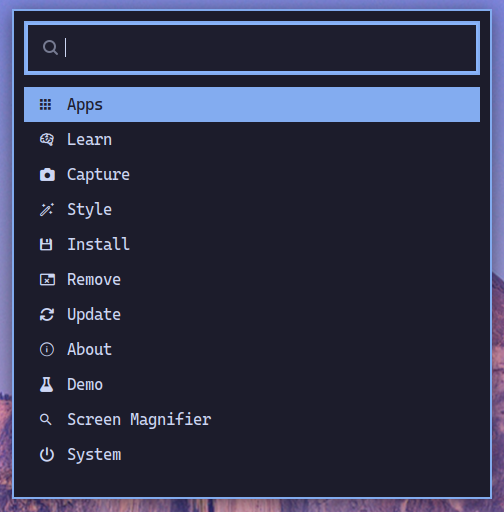
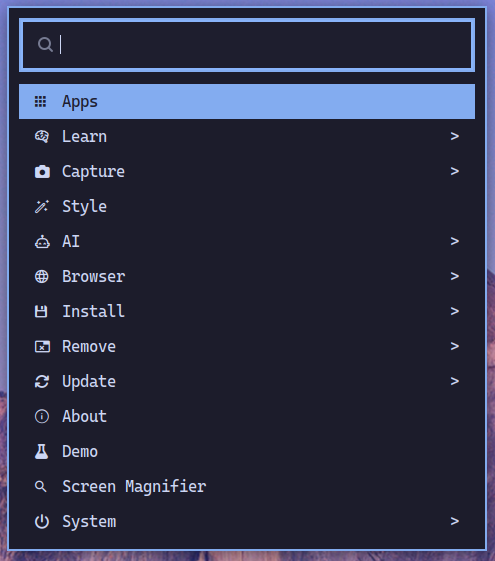
4.4.0

diff --git a/docs/ai.md b/docs/ai.md
@@ -1,27 +1,36 @@
-OhMyDebn includes several different options for your AI needs: OpenCode, Claude Code, ChatGPT, Visual Studio Code with Github Copilot AI, and Antigravity with Google Agentic AI.
+OhMyDebn includes several different options for your AI needs: OpenCode, Claude Code, ChatGPT, Pi, Visual Studio Code with Github Copilot AI, and Antigravity with Google Agentic AI.
+
+## Default AI Assistant
+
+Hotkey Super + A always launches your *default* AI assistant. Picking any option from the OhMyDebn menu's AI section also sets it as your new default, so whichever one you use most is just a keypress away. Until you pick one yourself, the default is OpenCode.
+
+If you're in a terminal, the `a` alias runs your default assistant directly in that terminal (or opens it on the current directory for GUI options like ChatGPT, VS Code, and Antigravity).
 
 ## OpenCode
 
-OpenCode is available as an optional installation. You can install via OhMyDebn menu (Install->AI). You can run via menu or hotkey Super + A. That hotkey checks to see if it's installed first so even on a new installation you can just press Super + A and it will install and then run.
-
-[OpenCode](https://opencode.ai/) runs in a terminal and automatically adapts to our [desktop themes](desktop-themes.md).
+OpenCode is available as an optional installation. You can install via the OhMyDebn menu (AI). [OpenCode](https://opencode.ai/) runs in a terminal and automatically adapts to our [desktop themes](desktop-themes.md). From an existing terminal session, the `c` alias runs OpenCode directly.
 
 ![OhMyDebn opencode-cli](https://raw.githubusercontent.com/dougburks/ohmydebn-docs/refs/heads/main/images/ohmydebn-opencode-cli.png)
+
 ## Claude Code
 
-Claude Code is available as an optional installation. You can install via OhMyDebn menu (Install->AI). You can run in an existing terminal session with the claude command. Alternatively, you can use hotkey Ctrl + Alt + C to start a terminal and run Claude. That hotkey checks to see if it's installed first so even on a new installation you can just press Ctrl + Alt + C and it will install and then run.
+[Claude Code](https://claude.com/claude-code) is available as an optional installation. You can install via the OhMyDebn menu (AI). You can run in an existing terminal session with the `claude` command. Alternatively, you can use hotkey Ctrl + Alt + C to start a terminal and run Claude. That hotkey checks to see if it's installed first so even on a new installation you can just press Ctrl + Alt + C and it will install and then run.
 
 ## ChatGPT
 
-ChatGPT is available as an optional installation. You can install via OhMyDebn menu (Install->AI). You can then run via menu.
+[ChatGPT](https://chatgpt.com/) is available as an optional installation. You can install via the OhMyDebn menu (AI). You can then run via menu.
+
+## Pi
+
+[Pi](https://github.com/earendil-works/pi) is a terminal-based coding agent from earendil-works and is available as an optional installation. You can install via the OhMyDebn menu (AI). From an existing terminal session, the `pi` alias runs it directly.
 
 ## Visual Studio Code with Github Copilot AI
 
-Visual Studio Code is available as an optional installation. You can install via OhMyDebn menu (Install->Editor or Install->AI). You can run via menu or hotkey Ctrl + Super + S. That hotkey checks to see if it's installed first so even on a new installation you can just press Ctrl + Super + S and it will install and then run.
+[Visual Studio Code](https://code.visualstudio.com/) with [GitHub Copilot](https://github.com/features/copilot) is available as an optional installation. You can install via the OhMyDebn menu (Install->Editor or AI). You can run via menu or hotkey Ctrl + Super + S. That hotkey checks to see if it's installed first so even on a new installation you can just press Ctrl + Super + S and it will install and then run.
 
 ## Antigravity with Google Agentic AI
 
-Antigravity is a fork of Visual Studio Code for Google Agentic AI and is available as an optional installation. You can install via OhMyDebn menu (Install->Editor or Install->AI). You can run via menu or hotkey Ctrl + Super + G. That hotkey checks to see if it's installed first so even on a new installation you can just press Ctrl + Super + G and it will install and then run.
+[Antigravity](https://antigravity.google/) is a fork of Visual Studio Code for Google Agentic AI and is available as an optional installation. You can install via the OhMyDebn menu (Install->Editor or AI). You can run via menu or hotkey Ctrl + Super + G. That hotkey checks to see if it's installed first so even on a new installation you can just press Ctrl + Super + G and it will install and then run.
 
 ![OhMyDebn antigravity](https://raw.githubusercontent.com/dougburks/ohmydebn-docs/refs/heads/main/images/ohmydebn-antigravity.png)
 

diff --git a/docs/desktop-themes.md b/docs/desktop-themes.md
@@ -16,25 +16,12 @@ This opens a full-screen theme and background browser:
 - `Up` / `Down` browse the backgrounds included with the theme currently shown, when it has more than one.
 - `Enter` applies the theme and background currently shown.
 - `Esc` cancels without changing anything.
-- `B` opens the [Omarchy Extra Themes](https://bjarneo.github.io/omarchy-themes/) gallery in your browser to browse for more themes. Picking one there installs and applies it automatically.
+- `S` opens a search box; type to jump the carousel straight to the first matching theme.
+- `B` opens the [Omarchy Themes](https://bjarneo.github.io/omarchy-themes/) gallery in your browser to browse for more themes. Picking one there installs and applies it automatically. Since applying a theme this way is triggered from a link, OhMyDebn always shows a confirmation dialog first with the theme's source before applying it.
 - `C` launches [Aether](https://github.com/bjarneo/aether) so you can build your own theme. You can also launch Aether directly using the hotkey `Ctrl + Shift + A` and use it to search for wallpaper and extract colors to build a desktop theme.
 - `R` removes the theme currently shown (only available for themes you've installed yourself, not the themes bundled with OhMyDebn). Press it again to confirm.
 
-## Add a Custom Background
-
-To add your own background images to the current theme, go to the OhMyDebn menu and select Install - Style - Background. This opens the current theme's backgrounds folder in the file manager so you can copy images into it; they'll then show up when browsing backgrounds with `Up` / `Down` in the theme carousel.
-
-## Install Theme from URL
-
-To install a new theme from a git repo, go to the OhMyDebn menu and select Install - Style - Theme.
-
-![OhMyDebn theme install](https://raw.githubusercontent.com/dougburks/ohmydebn-docs/refs/heads/main/images/ohmydebn-theme-install.png)
-
-## Remove Theme
-
-To remove a theme you've installed yourself, go to the OhMyDebn menu and select Remove - Theme (or press `R` while it's shown in the theme carousel, described above).
-
-![OhMyDebn theme remove](https://raw.githubusercontent.com/dougburks/ohmydebn-docs/refs/heads/main/images/ohmydebn-theme-remove.png)
+OhMyDebn also automatically picks a matching icon color based on each theme's accent color, so icons stay legible on custom and Aether-generated themes, not just the themes bundled with OhMyDebn.
 
 ## Themes Included from Omarchy
 

diff --git a/docs/installation.md b/docs/installation.md
@@ -14,9 +14,10 @@ bash install.sh
 ```
 ## Installation Options
 
-By default, the installation script leaves existing packages like Firefox, Thunderbird, and LibreOffice in place. The installation script supports the following option:
+By default, the installation script leaves existing packages like Firefox, Thunderbird, and LibreOffice in place. The installation script supports the following options:
 
-- `--power-user` - removes optional apps that ship on the base Debian 13 Cinnamon ISO (Firefox, LibreOffice, etc.) and installs a curated set of power-user extras: Boxes, Brave Origin, Claude Code, GIMP, OpenCode, Podman, keepassxc-minimal, rclone, openssh-server, pdftk-java, rsync, ethtool, traceroute, lshw, shellcheck, and iperf3. It also enables the [screen magnifier](screen-magnifier.md).
+- `--power-user` - removes optional apps that ship on the base Debian 13 Cinnamon ISO (Firefox, LibreOffice, etc.) and installs a curated set of power-user extras: Boxes, Brave Origin, Claude Code, GIMP, OpenCode, Podman, keepassxc-minimal, rclone, openssh-server, pdftk-java, rsync, ethtool, traceroute, lshw, shellcheck, and iperf3. It also enables the [screen magnifier](screen-magnifier.md). On Kali Linux, Firefox is left in place even with this option since Kali doesn't ship an alternative browser by default.
+- `--yes` - skips every confirmation prompt for unattended installs (for example, scripted or automated provisioning). Everything the prompts warn about still happens; this only removes the pause to read them, so make sure you understand those warnings before using it.
 
 Example:
 ```
@@ -31,6 +32,10 @@ Instead of starting from a Debian Live 13 Cinnamon ISO image, an alternative is 
 ### Linux Mint Debian Edition 7
 
 Linux Mint Debian Edition (LMDE) 7 is based on Debian 13 and our installer allows for installation on LMDE 7.
+
+### Kali Linux
+
+Kali Linux (Rolling) is also supported. Once you're connected to the Internet, run our installer as shown above and it will detect Kali and continue on with OhMyDebn installation.
 
 ### Raspberry Pi
 

diff --git a/docs/menus.md b/docs/menus.md
@@ -8,16 +8,27 @@ The Cinnamon menu includes an entry to launch the OhMyDebn menu.
 
 ## OhMyDebn Menu
 
-The OhMyDebn menu allows you to launch apps, learn about OhMyDebn, and configure and control the system. You can activate this menu from the Cinnamon menu or by pressing `Super + Alt + Space`.
+The OhMyDebn menu allows you to launch apps, learn about OhMyDebn, and configure and control the system. You can activate this menu from the Cinnamon menu or by pressing `Super + Space` (or `Super + Alt + Space`).
 
 ![OhMyDebn Menu](https://raw.githubusercontent.com/dougburks/ohmydebn-docs/refs/heads/main/images/ohmydebn-menu.png)
 
-Once open, you can browse categories with the arrow keys or start typing to instantly search across every option in the menu, not just the current category.
+Once open, you can browse categories with the arrow keys or start typing to instantly search across every option in the menu, not just the current category. Categories that lead to a further submenu are marked with a `>` on the right.
 
 The first option launches the separate Apps menu.
 
 ## Apps Menu
 
-To run applications, you can select `Apps` from the OhMyDebn menu or just press the [hotkey](hotkeys.md) `Super + Space` (or `Super + R`). You can then use arrow keys to select which application you'd like to run or start typing the first few letters of the application name.
+To run applications, you can select `Apps` from the OhMyDebn menu or just press the [hotkey](hotkeys.md) `Super + R`. You can then use arrow keys to select which application you'd like to run or start typing the first few letters of the application name.
 
 ![OhMyDebn Apps Menu](https://raw.githubusercontent.com/dougburks/ohmydebn-docs/refs/heads/main/images/ohmydebn-apps.png)
+
+## Learn Menu
+
+Select `Learn` from the OhMyDebn menu for quick links to documentation, opened in your [browser](browser.md):
+
+- Keybindings (this site's [hotkeys](hotkeys.md) page)
+- OhMyDebn (ohmydebn.org)
+- Cinnamon
+- Debian
+- Neovim (LazyVim keymaps)
+- Bash

diff --git a/docs/containerization.md b/docs/containerization.md
@@ -1,17 +1,25 @@
 ## Containerization
 
-If you'd like to run containers on your OhMyDebn installation, you can use Docker or Podman. You can also install Distrobox which can use either Docker or Podman.
+If you'd like to run containers on your OhMyDebn installation, you can use [Docker](https://www.docker.com/) or [Podman](https://podman.io/). You can also install [Distrobox](https://distrobox.it/) which can use either Docker or Podman.
 
 ## Docker
 
-To install Docker, launch the OhMyDebn menu and then select `Install` - `Containerization` - `Docker`.
+To install [Docker](https://www.docker.com/), launch the OhMyDebn menu and then select `Install` - `Containerization` - `Docker`.
+
+Your user is not automatically added to the `docker` group, since membership in that group is effectively passwordless root: any process running as you could use it to rewrite the host as root with no password prompt. Use `sudo docker ...` instead. If you understand the risk and want the convenience of running docker without `sudo`, you can opt in yourself:
+
+```bash
+sudo usermod -aG docker "$USER"
+```
+
+Then log out and back in for the change to take effect.
 
 ## Podman
 
-To install Podman, launch the OhMyDebn menu and then select `Install` - `Containerization` - `Podman`.
+To install [Podman](https://podman.io/), launch the OhMyDebn menu and then select `Install` - `Containerization` - `Podman`.
 
 ## Distrobox
 
-Distrobox allows you to use any Linux distro inside your terminal. It does this using containers and can use either Docker or Podman.
+[Distrobox](https://distrobox.it/) allows you to use any Linux distro inside your terminal. It does this using containers and can use either Docker or Podman.
 
 To install Distrobox, launch the OhMyDebn menu and then select `Install` - `Containerization` - `Distrobox`.

diff --git a/docs/virtualization.md b/docs/virtualization.md
@@ -4,7 +4,7 @@ If you'd like to run a virtual machine (VM) on your OhMyDebn installation, you c
 
 ## Boxes
 
-The hotkey for Boxes is `Ctrl + Alt + B`. This will check to see if Boxes is installed and install it if necessary. Alternatively, you can install Boxes by running `ohmydebn-boxes-install` or launch the OhMyDebn menu and then select `Install` - `Virtualization` - `Boxes`.
+The hotkey for [Boxes](https://apps.gnome.org/Boxes/) is `Ctrl + Alt + B`. This will check to see if Boxes is installed and install it if necessary. Alternatively, you can install Boxes by running `ohmydebn-boxes-install` or launch the OhMyDebn menu and then select `Install` - `Virtualization` - `Boxes`.
 
 At the prompt, press Enter to continue:
 
@@ -21,7 +21,7 @@ You can then start Boxes from the Cinnamon menu or Apps menu or via [hotkey](hot
 
 ## Virtual Machine Manager
 
-The hotkey for Virtual Machine Manager is `Ctrl + Alt + V`. This will check to see if Virtual Machine Manager is installed and install it if necessary. Alternatively, you can install Virtual Machine Manager by running `ohmydebn-virtualization-install` or launch the OhMyDebn menu and then select `Install` - `Virtualization` - `Virtual Machine Manager`.
+The hotkey for [Virtual Machine Manager](https://virt-manager.org/) is `Ctrl + Alt + V`. This will check to see if Virtual Machine Manager is installed and install it if necessary. Alternatively, you can install Virtual Machine Manager by running `ohmydebn-virtualization-install` or launch the OhMyDebn menu and then select `Install` - `Virtualization` - `Virtual Machine Manager`.
 
 At the prompt, press Enter to continue:
 

diff --git a/docs/faq.md b/docs/faq.md
@@ -23,14 +23,16 @@ Here are my requirements for a desktop environment:
 
 Cinnamon satisfies these requirements and has some nice eye candy!
 
-## Why Debian Cinnamon?
+## Why Debian Cinnamon instead of Linux Mint?
 
-Why use Debian Cinnamon instead of Linux Mint or Linux Mint Debian Edition (LMDE)? Linux Mint and LMDE are great, but there are a few reasons why you might want to use Debian 13 Cinnamon instead:
+Linux Mint is great, but there are a few reasons why the project defaults to vanilla Debian 13 Cinnamon instead:
 
 - Linux Mint is only available for x86 architecture. If you're on ARM, you need a distro compiled for ARM that can run Cinnamon (like Debian).
 - Raspberry Pi OS is based on Debian 13. You can use this repo to turn it into OhMyDebn!
 - For fun and for science!
-  
+
+This doesn't apply to Linux Mint Debian Edition (LMDE), though - it's already Debian-based and already ships Cinnamon, so it's just as valid a starting point as vanilla Debian. Our [installer supports installing directly onto LMDE 7](installation.md#linux-mint-debian-edition-7) if you'd rather start there and keep Mint's extras.
+
 
 ## What is the relationship between OhMyDebn and Security Onion?
 

diff --git a/docs/cybersecurity.md b/docs/cybersecurity.md
@@ -1,4 +1,4 @@
-If you're in cybersecurity or networking, then you may need to analyze pcap files. The OhMyDebn menu has an Install section that allows you to install standard libpcap utilities like tcpdump, tshark, and wireshark. It also allows you to install our new SO-CRATES tool. Alternatively, you can run `ohmydebn-socrates` or just use hotkey `Ctrl + Alt + S`. Any of these methods will check to see if SO-CRATES is installed and install it if necessary.
+If you're in cybersecurity or networking, then you may need to analyze pcap files. The OhMyDebn menu has an Install section that allows you to install standard libpcap utilities like [tcpdump](https://www.tcpdump.org/), [tshark](https://www.wireshark.org/docs/man-pages/tshark.html), and [wireshark](https://www.wireshark.org/). It also allows you to install our new [SO-CRATES](https://so-crates.org) tool. Alternatively, you can run `ohmydebn-socrates` or just use hotkey `Ctrl + Alt + S`. Any of these methods will check to see if SO-CRATES is installed and install it if necessary.
 
 Once SO-CRATES starts just click the hyperlink at the bottom of the terminal window to open the SO-CRATES web interface in your browser.
 

diff --git a/docs/hotkeys.md b/docs/hotkeys.md
@@ -5,10 +5,10 @@ Pressing `Super + K` will open the [browser](browser.md) and navigate to this li
 | Hotkey | Function |
 |--------|----------|
 | `Super` | Cinnamon menu |
-| `Super + Alt + Space` | OhMyDebn menu |
+| `Super + Space` or `Super + Alt + Space` | OhMyDebn menu |
 | `Ctrl + Shift + G` | gTile window tiling |
 | `Ctrl + Shift + O` | OhMyDebn logo |
-| `Ctrl + Shift + S` | fastfetch system summary |
+| `Ctrl + Shift + S` | system summary via fastfetch |
 | `Ctrl + Shift + A` | Aether theme builder |
 | `Ctrl + Super + T` | Browse and pick a theme |
 | `Ctrl + Super + B` | Browse and pick a background for the current theme |
@@ -104,9 +104,9 @@ Pressing `Super + K` will open the [browser](browser.md) and navigate to this li
 
 | Hotkey | Function |
 |--------|----------|
-| `Super + Space` or `Super + R` | Application Launcher |
+| `Super + R` | Application Launcher |
 | `Super + Return` | Terminal (Alacritty) |
-| `Super + A` | AI (OpenCode) |
+| `Super + A` | AI (your default assistant, [configurable](ai.md#default-ai-assistant)) |
 | `Super + B` | Browser |
 | `Super + F` | File Manager (Nemo) |
 | `Super + G` | Google search |

diff --git a/docs/vpn.md b/docs/vpn.md
@@ -2,8 +2,8 @@ OhMyDebn supports two VPN options: [Cloudflare Warp](https://one.one.one.one/) a
 
 ## Cloudflare Warp
 
-Cloudflare Warp is available as an optional installation. You can install via OhMyDebn menu (Install->VPN). You can run via menu or [hotkey](hotkeys.md) `Ctrl + Alt + W`. That hotkey checks to see if it's installed first so even on a new installation you can just press `Ctrl + Alt + W` and it will install and then run.
+[Cloudflare Warp](https://one.one.one.one/) is available as an optional installation. You can install via OhMyDebn menu (Install->VPN). You can run via menu or [hotkey](hotkeys.md) `Ctrl + Alt + W`. That hotkey checks to see if it's installed first so even on a new installation you can just press `Ctrl + Alt + W` and it will install and then run.
 
 ## Tailscale
 
-Tailscale is available as an optional installation. You can install via OhMyDebn menu (Install->VPN). You can then run via menu.
+[Tailscale](https://tailscale.com/) is available as an optional installation. You can install via OhMyDebn menu (Install->VPN). You can then run via menu.

diff --git a/docs/ingredients.md b/docs/ingredients.md
@@ -27,7 +27,7 @@ Here's what you get in OhMyDebn by default:
 
 Here are some additional components that you can optionally install:
 
-- AI: [OpenCode](ai.md#opencode) with free and paid models, [ChatGPT](ai.md#chatgpt), [VS Code](ai.md#visual-studio-code-with-github-copilot-ai) with Github Copilot AI, [Antigravity](ai.md#antigravity-with-google-agentic-ai) with Google Agentic AI
+- AI: [OpenCode](ai.md#opencode) with free and paid models, [Claude Code](ai.md#claude-code), [ChatGPT](ai.md#chatgpt), [Pi](ai.md#pi), [VS Code](ai.md#visual-studio-code-with-github-copilot-ai) with Github Copilot AI, [Antigravity](ai.md#antigravity-with-google-agentic-ai) with Google Agentic AI
 - VPN: [Cloudflare Warp](vpn.md#cloudflare-warp) or [Tailscale](vpn.md#tailscale)
 - Virtualization: run virtual machines via [Boxes](virtualization.md#boxes) or [Virtual Machine Manager](virtualization.md#virtual-machine-manager)
 - Containerization: run containers via [Docker](containerization.md#docker) or [Podman](containerization.md#podman)

diff --git a/docs/browser.md b/docs/browser.md
@@ -8,10 +8,10 @@ To launch the browser, you can open it from the Cinnamon menu, from the Apps men
 
 ## Installing Other Browsers
 
-If you prefer other browsers you can install them by going to the OhMyDebn menu and selecting Install -> Browser:
+If you prefer other browsers you can install them by going to the OhMyDebn menu and selecting Browser:
 
-- Brave Origin (minimal)
-- Brave Browser (extras)
-- Firefox
-- Google Chrome
-- Helium
+- [Brave](https://brave.com/) Origin (minimal)
+- [Brave](https://brave.com/) Browser (extras)
+- [Firefox](https://www.mozilla.org/firefox/)
+- [Google Chrome](https://www.google.com/chrome/)
+- [Helium](https://helium.computer/)
